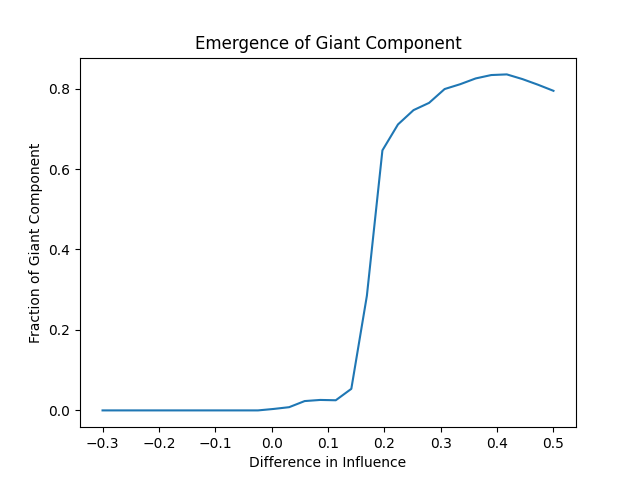
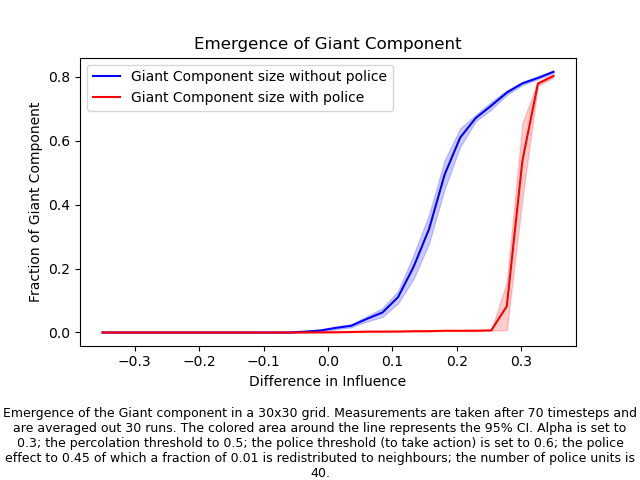
Chenages to emergence code and plots

diff --git a/emergence.py b/emergence.py
@@ -1,45 +1,76 @@
 import numpy as np
 import matplotlib.pyplot as plt
+from scipy.stats import sem, t
 
-from modules.grid_update import update_grid_nopolice,update_grid_withpolice, giant_component
+from modules.grid_update import update_grid_nopolice, update_grid_withpolice, giant_component
 
-def simulate_emergence_if(grid_size=(50, 50), timesteps=70, alpha=0.3, influence_diff_range=(-0.3, 0.5), 
+def simulate_emergence_if(grid_size=(30, 30), timesteps=70, alpha=0.3, 
                        percolation_threshold=0.5, police_threshold=0.7, police_effect=0.3, 
-                       redistribution_frac=0.7, police_units=15, police=False, amount_of_runs=10, title='Emergence of Giant Component', save_values=False):
-    # np.random.seed(123)
+                       redistribution_frac=0.7, police_units=15, num_simulation=30, title='Emergence'):
+    
     beta = 1 - alpha
-    influence_diff_list = np.linspace(influence_diff_range[0], influence_diff_range[1], 30)
+    influence_diff_list = np.linspace(-beta / 2, beta / 2, 30)
     print(influence_diff_list)
+    all_giant_fractions = []
     average_giant_fractions = []
-    init_criminality = np.random.rand(*grid_size)
-    education = np.random.rand(*grid_size)
-    income = np.random.rand(*grid_size)
 
-    for i in range(amount_of_runs):
-        print(f"Simulation {i+1}/30")
+    # Generate data for the case without police
+    for i in range(num_simulation): # Repeat the simulation a few times to get an average curve for the emergence graph
         giant_fractions = []
-        for influence_diff in influence_diff_list:
-            criminality = init_criminality
-            for t in range(timesteps):
-                if police:
-                    criminality = update_grid_withpolice(criminality, education, income, influence_diff, 
-                                                         police_threshold, police_effect, redistribution_frac, police_units, alpha=alpha, beta=beta, grid_size=grid_size)[0]
-                else:
-                    criminality = update_grid_nopolice(criminality, education, income, influence_diff, alpha=alpha, beta=beta)
-            giant_fractions.append(giant_component(criminality, percolation_threshold))
-        average_giant_fractions.append(giant_fractions)
+        for influence_diff in influence_diff_list: # Loop through the influence difference values
+            criminality = np.random.rand(*grid_size) # Reset the criminality grid
+            education = np.random.rand(*grid_size) # Reset the education grid
+            income = np.random.rand(*grid_size) # Reset the income grid
+            for _ in range(timesteps): # Run the simulation for a long enough time
+                criminality = update_grid_nopolice(criminality, education, income, influence_diff, alpha, beta)
+            giant_fractions.append(giant_component(criminality, percolation_threshold)) # Get the size of the giant component
+        all_giant_fractions.append(giant_fractions) # Store the giant component sizes for every influence difference value
 
-    if save_values:
-        #convert to numpy array and save
-        average_giant_fraction = np.array(average_giant_fractions) 
-        np.save(f'averages_giant_fractions_if.npy', average_giant_fraction)
-    average_giant_fractions = np.mean(average_giant_fractions, axis=0)
+    all_giant_fractions = np.array(all_giant_fractions)
+    average_giant_fractions = np.mean(all_giant_fractions, axis=0) # Compute the average giant component size for every influence difference value
+    std_err = sem(all_giant_fractions, axis=0) # Compute the standard error of the mean for every influence difference value
+    error_margin = std_err * t.ppf((1 + 0.95) / 2, num_simulation - 1) # Compute the error margin for the confidence interval
 
-    plt.plot(influence_diff_list, average_giant_fractions)
+    # Plot the size of the giant component after the fixed amount of timesteps (and a fixed threshold) for every influence difference value (with 95% CI)
+    plt.plot(influence_diff_list, average_giant_fractions, color = 'b', label = 'Giant Component size without police')
+    plt.fill_between(influence_diff_list, average_giant_fractions - error_margin, average_giant_fractions + error_margin, color = 'b', alpha = 0.2)
+
+    # Generate data for the case with police
+    police_threshold = 0.6 # Set the threshold of criminality for police intervention
+    police_effect = 0.45 # Decide by how much criminality is reduced in a cell when police acts
+    redistribution_frac = 0.01 # Decide how much of the criminality is redistributed to neighbouring cells
+    police_units = 40 # Define the number of available police units
+
+    all_giant_fractions = []
+    average_giant_fractions = []
+
+    for i in range(num_simulation): # Repeat the simulation a few times to get an average curve for the emergence graph
+        giant_fractions = []
+        for influence_diff in influence_diff_list: # Loop through the influence difference values
+            criminality = np.random.rand(*grid_size) # Reset the criminality grid
+            education = np.random.rand(*grid_size) # Reset the education grid
+            income = np.random.rand(*grid_size) # Reset the income grid
+            for _ in range(timesteps): # Run the simulation for a long enough time
+                criminality = update_grid_withpolice(criminality, education, income, influence_diff, police_threshold, police_effect, redistribution_frac, police_units, grid_size, alpha, beta)[0]
+            giant_fractions.append(giant_component(criminality, percolation_threshold)) # Get the size of the giant component
+        all_giant_fractions.append(giant_fractions) # Store the giant component sizes for every influence difference value
+
+    all_giant_fractions = np.array(all_giant_fractions)
+    average_giant_fractions = np.mean(all_giant_fractions, axis=0) # Compute the average giant component size for every influence difference value
+    std_err = sem(all_giant_fractions, axis=0) # Compute the standard error of the mean for every influence difference value
+    error_margin = std_err * t.ppf(1.95 / 2, num_simulation - 1) # Compute the error margin for the confidence interval
+
+    # Plot the size of the giant component after the fixed amount of timesteps (and a fixed threshold) for every influence difference value (with 95% CI)
+    plt.plot(influence_diff_list, average_giant_fractions, color = 'r', label = 'Giant Component size with police')
+    plt.fill_between(influence_diff_list, average_giant_fractions - error_margin, average_giant_fractions + error_margin, color = 'r', alpha = 0.2)
     plt.title('Emergence of Giant Component')
     plt.xlabel('Difference in Influence')
     plt.ylabel('Fraction of Giant Component')
-    plt.savefig('figs/emergence.png')
+    plt.subplots_adjust(bottom=0.28)
+    plt.figtext(0.5, 0.01, f"""Emergence of the Giant component in a {grid_size[0]}x{grid_size[1]} grid. Measurements are taken after {timesteps} timesteps and are averaged out {num_simulation} runs. The colored area around the line represents the 95% CI. Alpha is set to {alpha}; the percolation threshold to {percolation_threshold}; the police threshold (to take action) is set to {police_threshold}; the police effect to {police_effect} of which a fraction of {redistribution_frac} is redistributed to neighbours; the number of police units is {police_units}.""",
+                            wrap=True, horizontalalignment='center', fontsize=9)
+    plt.legend()
+    plt.savefig(f'figs/{title}.png')
 
 # giant_component_for_different_alpha
 def simulate_emergence_a(grid_size=(30, 30), timesteps=70, alpha_l=(0,1), influence_diff=0, 
@@ -59,13 +90,9 @@ def simulate_emergence_a(grid_size=(30, 30), timesteps=70, alpha_l=(0,1), influe
             print(alpha)
             beta = 1 - alpha
             criminality = init_criminality
-            for t in range(timesteps):
-                print(t)
-                if police:
-                    criminality = update_grid_withpolice(criminality, education, income, influence_diff, 
-                                                         police_threshold, police_effect, redistribution_frac, police_units, alpha=alpha, beta=beta, grid_size=grid_size)[0]
-                else:
-                    criminality = update_grid_nopolice(criminality, education, income, influence_diff, alpha=alpha, beta=beta)
+            for ts in range(timesteps):
+                criminality = update_grid_withpolice(criminality, education, income, influence_diff, 
+                                                         police_threshold, police_effect, redistribution_frac, police_units, alpha, beta, grid_size)[0]
             giant_fractions.append(giant_component(criminality, percolation_threshold))
         average_giant_fractions.append(giant_fractions)
 

diff --git a/modules/grid_update.py b/modules/grid_update.py
@@ -5,7 +5,7 @@ from numpy.lib.stride_tricks import sliding_window_view
 
 from modules.police import police
 
-def update_grid_nopolice(criminality, education, income, influence_diff, alpha=0.3, beta=0.7):
+def update_grid_nopolice(criminality, education, income, influence_diff, alpha, beta):
     padded_crim = np.pad(criminality, pad_width=1, mode='constant', constant_values=np.nan)
     neighborhoods = sliding_window_view(padded_crim, (3, 3))
     neighbors = neighborhoods.reshape(*criminality.shape, 9)
@@ -31,11 +31,11 @@ def update_grid_nopolice(criminality, education, income, influence_diff, alpha=0
 
 
 
-def update_grid_withpolice(criminality, education, income, influence_diff, police_threshold, police_effect, redistribution_frac, police_units, grid_size=(300,300), alpha=0.3,beta=0.7): # Update the criminality of the whole grid based on the update_cell function and police intervention
+def update_grid_withpolice(criminality, education, income, influence_diff, police_threshold, police_effect, redistribution_frac, police_units, grid_size, alpha, beta): # Update the criminality of the whole grid based on the update_cell function and police intervention
 
     new_criminality = update_grid_nopolice(criminality, education, income, influence_diff,alpha=alpha,beta=beta) # Update the criminality of the whole grid without police intervention
 
-    new_criminality, mask = police(new_criminality, police_threshold, police_effect, redistribution_frac, police_units) # Apply police intervention and save the mask grid to visualize the intervention
+    new_criminality, mask = police(new_criminality, police_threshold, police_effect, redistribution_frac, police_units, grid_size) # Apply police intervention and save the mask grid to visualize the intervention
     
     return new_criminality, mask
 

diff --git a/modules/police.py b/modules/police.py
@@ -1,7 +1,7 @@
 import numpy as np
 
 
-def police(criminality, police_threshold, police_effect, redistribution_frac, police_units, grid_size=(300,300)): # Apply police intervention to the criminality grid
+def police(criminality, police_threshold, police_effect, redistribution_frac, police_units, grid_size): # Apply police intervention to the criminality grid
 
     criminality_copy = criminality.copy()
     mask = np.zeros_like(criminality, dtype=bool) # Generate an equal grid to save location of police interventions to visualize later
